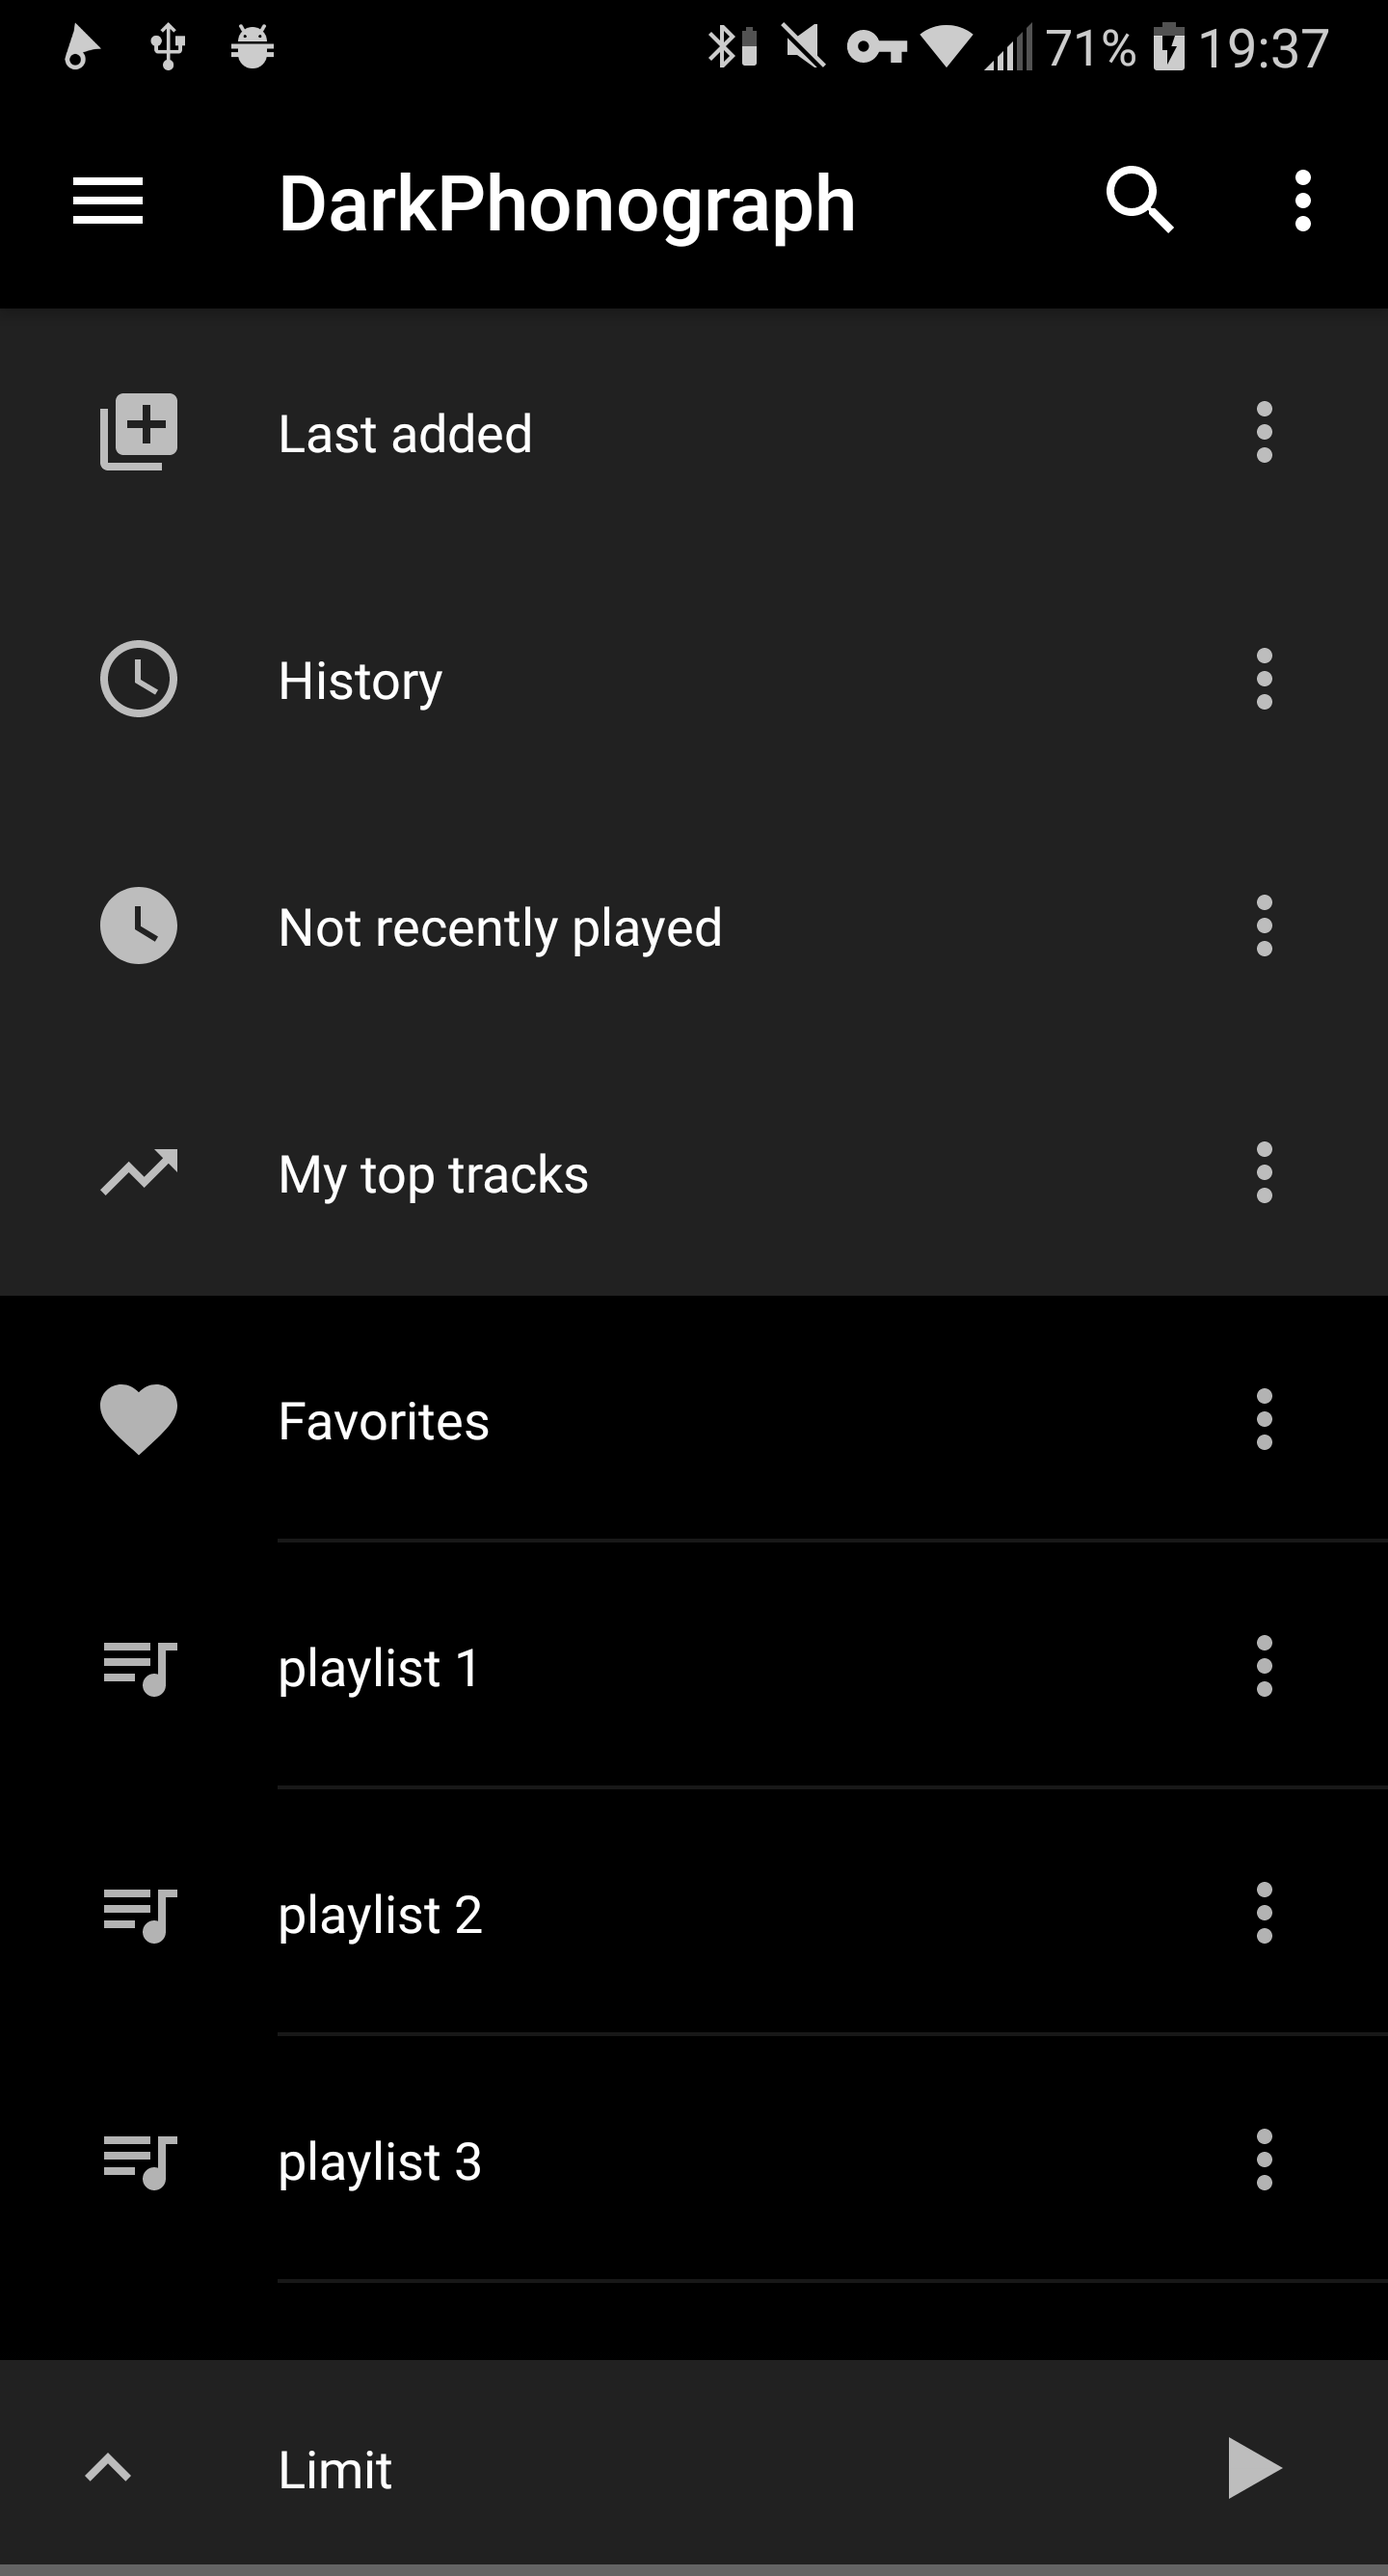
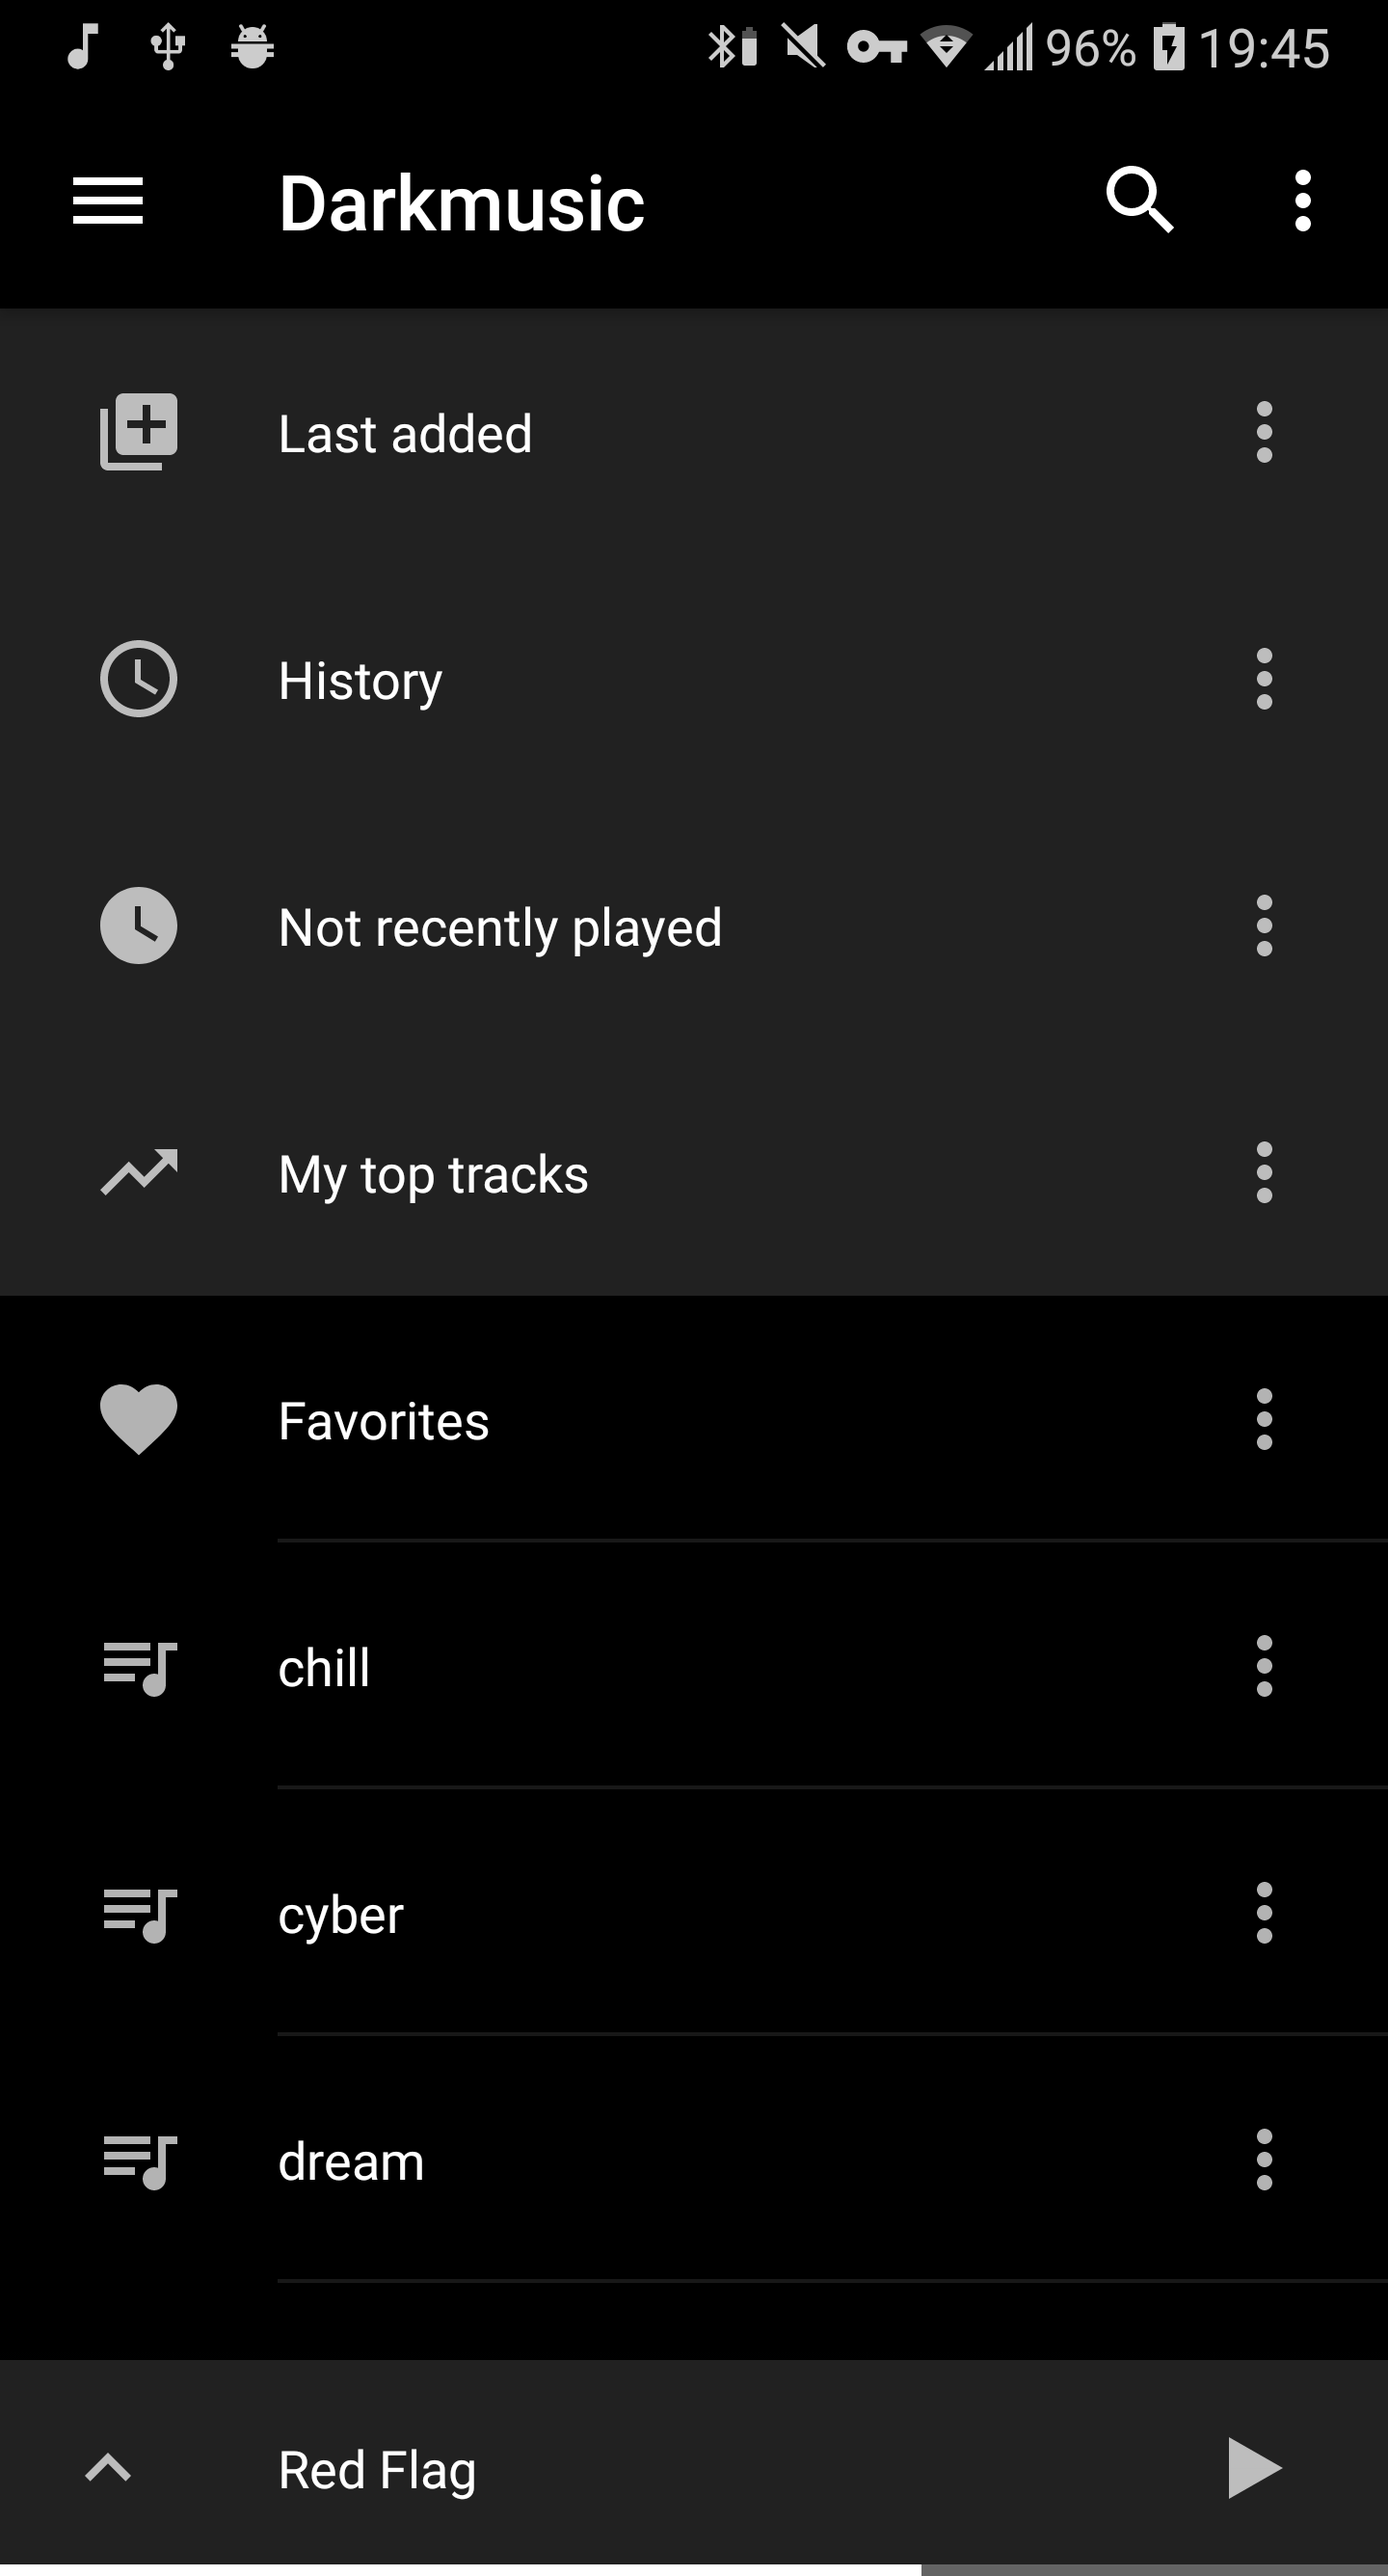
Updated README.md

diff --git a/README.md b/README.md
@@ -1,23 +1,9 @@
-# DarkPhonograph
+# <img src="./app/src/main/res/drawable-xxxhdpi/icon_web.png" alt="icon" width="40"/> Darkmusic
 [![License: GPL v3](https://img.shields.io/badge/License-GPL%20v3-blue.svg)](https://github.com/hyphenc/DarkPhonograph/blob/master/LICENSE.txt)
 
 **A Phonograph fork with stylistic modifications, namely a dark player interface.**
 
-You can find the changes I made by searching (Ctrl+Shift+F) for "// ~" in Android Studio, and see what I changed.
-
 All of this could probably be done a lot cleaner (etc.), but it works™
-
-## Additional Styling ##
-Heads up!
-I added three gradients in the file app/src/main/res/layout/fragment_player_album_cover.xml to make the notification icons visible again on white-ish covers when using the Card layout. However these will still show up on "Flat Layout", so pay attention to what version you download.
-
-I recommend these settings: (should all be default)
-```
-Colors>General theme>Black (AMOLED)
-Colors>Primary color>Custom>#000000 (->black)
-Colors>Accent color>Custom>#FFFFFF  (->white)
-```
-I also recommed having just one library tab, for example "Playlists", because when you have only one library tab, the tab view will be hidden.
 
 ## Download ##
 You can download the latest version [here](https://github.com/hyphenc/DarkPhonograph/releases/latest)
